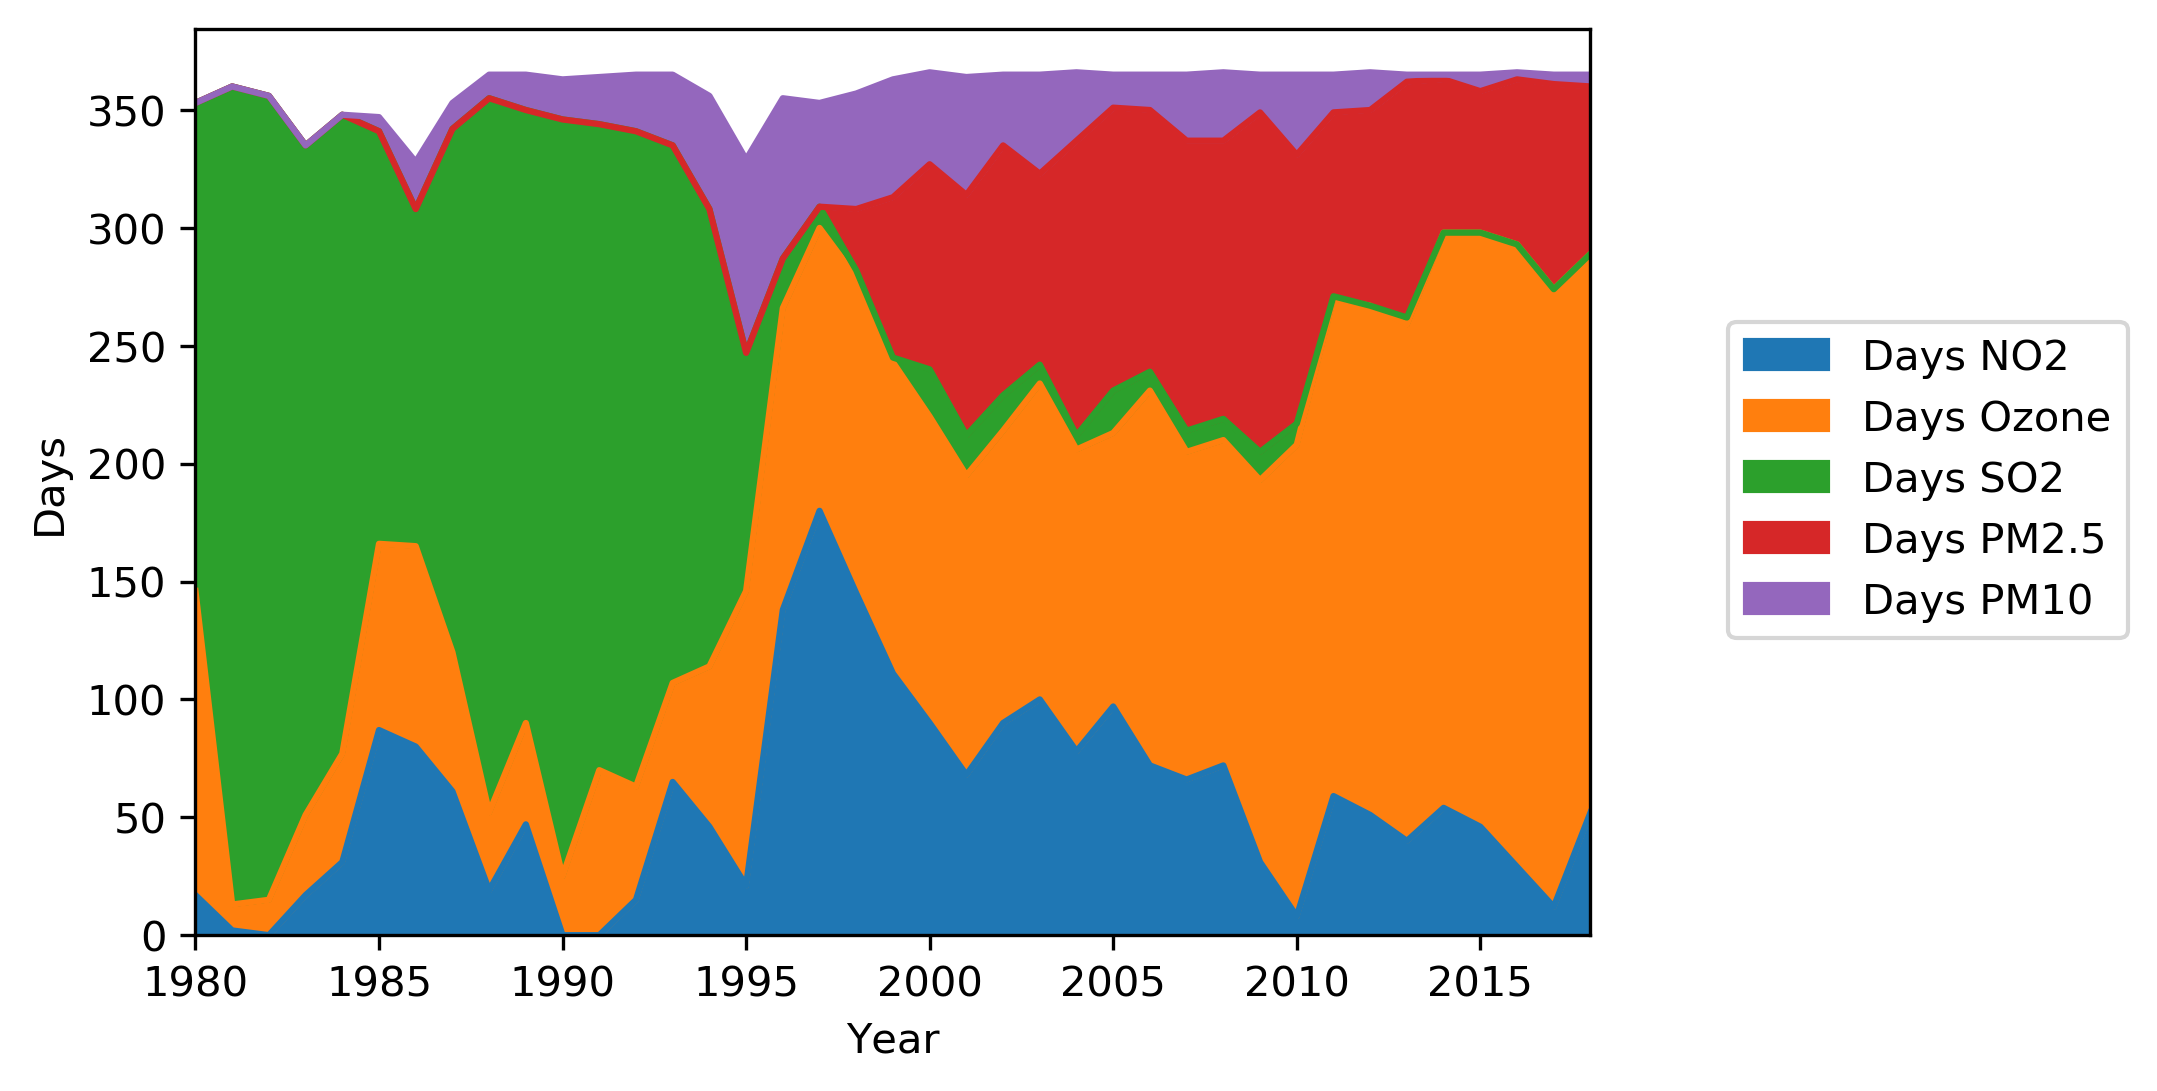
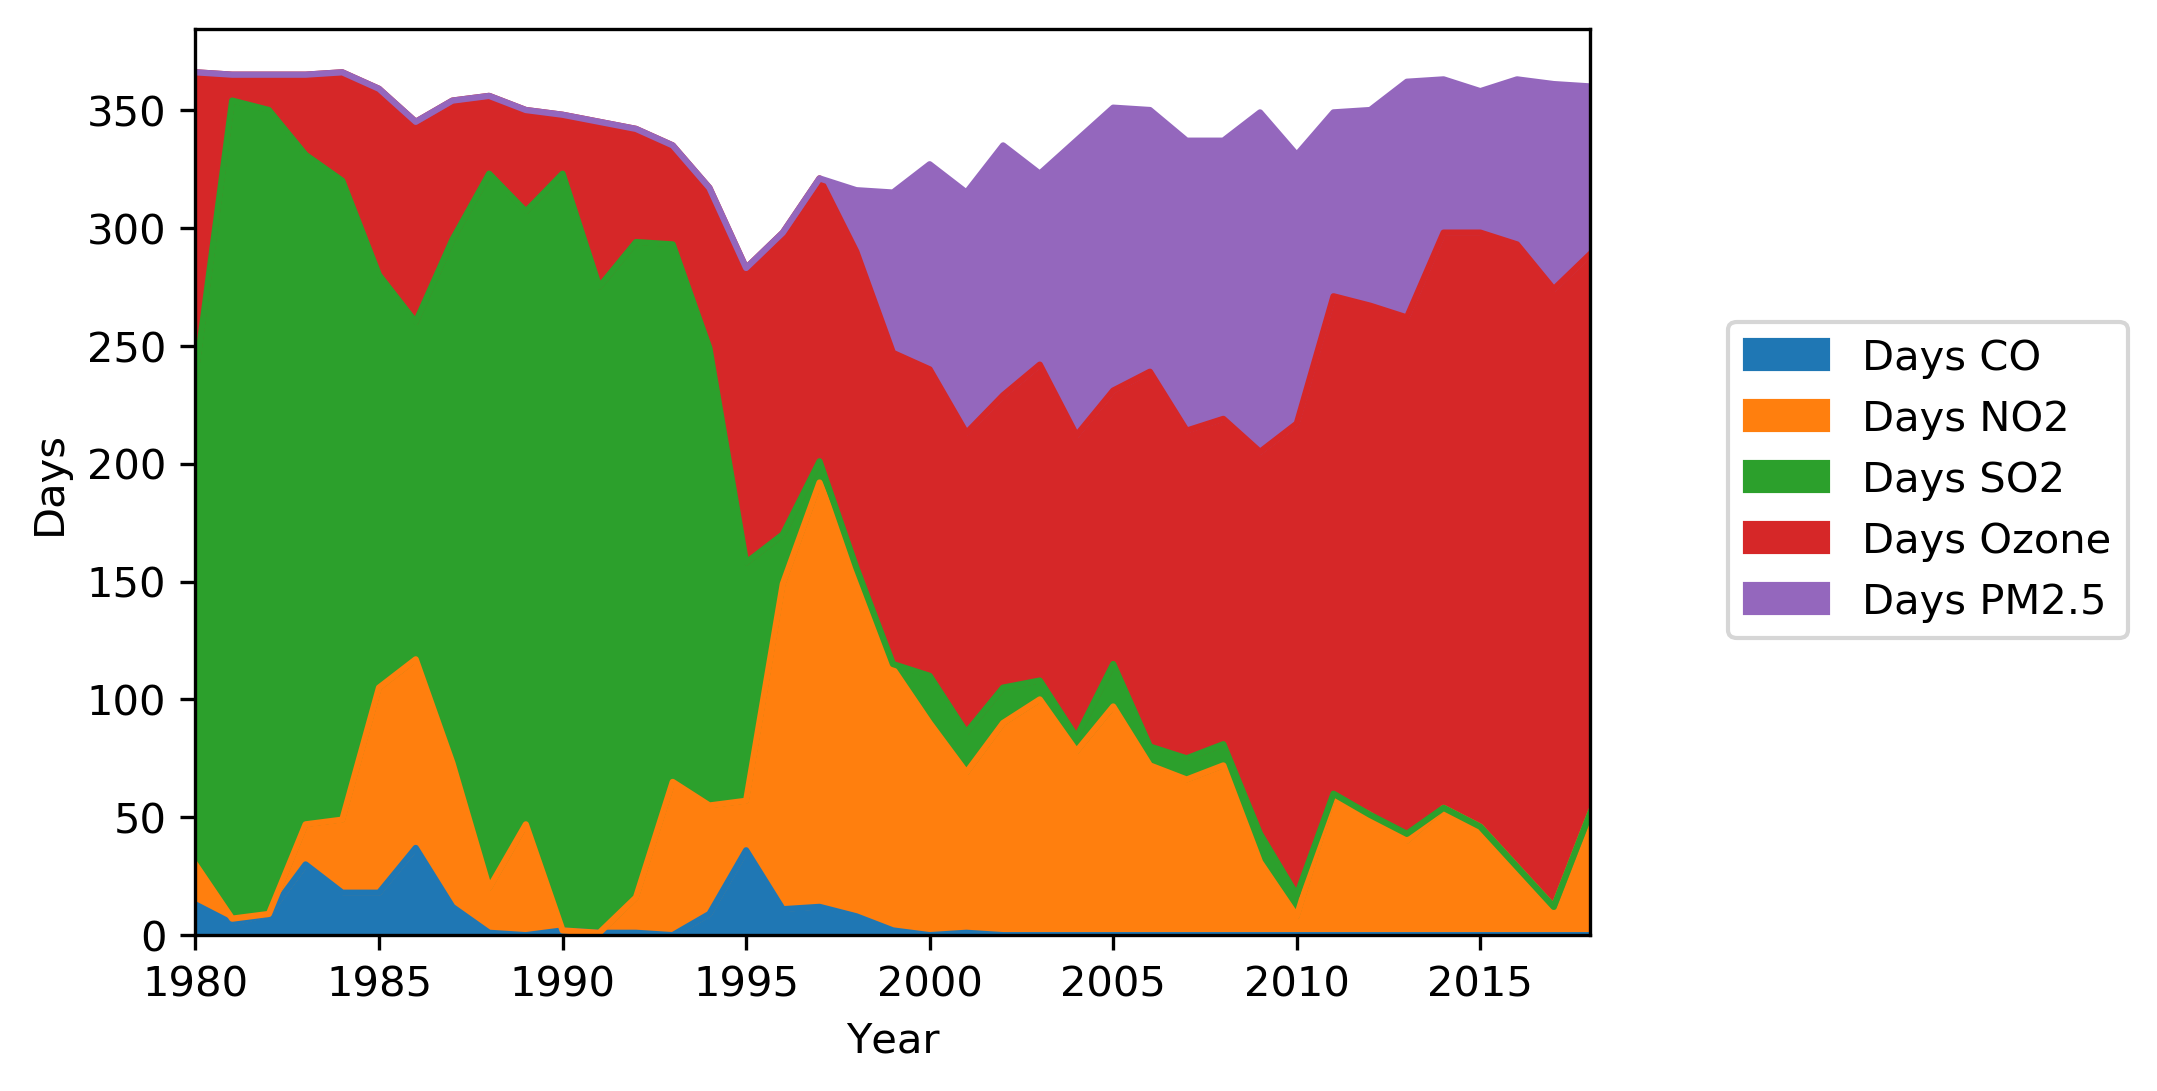
edits

diff --git a/_posts/2020-02-29-SLC-Air-Quality.md b/_posts/2020-02-29-SLC-Air-Quality.md
@@ -10,7 +10,7 @@ excerpt: "Using Python to collect and explore EPA air quality data."
 
 **Abstract**:
 
-Here I investigate how Salt Lake City's air quality has changed over time by downloading 38 years worth of data from the EPA, segmenting it into various dataframes with pandas, then exploring things visually with matplotlib.
+Here I investigate how Salt Lake City's air quality has changed over time by downloading 38 years worth of data from the EPA, segmenting it into various dataframes with pandas, then exploring them visually with matplotlib.
 
 **Background**:
 
@@ -24,7 +24,7 @@ As a child, I remember watching my dad clean the fish tank. This was a bit of a 
 
 <p style="text-align: center; font-style: italic;"> Not the fish tank of my childhood, but similar. </p>
 
-Household fish aren’t the only ones subjected to such conditions. Many of us live in areas with dirty air. Here’s a map of PM2.5 pollution (tiny particles that damage lungs) across the U.S.:
+Household fish aren’t the only ones subjected to such conditions. Many of us live in areas with dirty air. Here’s a map of PM2.5 pollution (tiny particles that cause a host of health problems) across the U.S.:
 
 <center>
 
@@ -34,7 +34,7 @@ Household fish aren’t the only ones subjected to such conditions. Many of us l
 
 <p style="text-align: center; font-style: italic;"> PM2.5 pollution across the U.S. </p>
 
-The blotch of red towards the middle-left of the country is Salt Lake City, where due to the perimeter of mountains surrounding the inhabited valley floor (forming a bowl-like geometry), pollutants can get trapped and accumulate. This is especially bad in the winter, when a blanket of warm air forms a “lid” on top of the colder valley floor – this is called the *winter inversion*, which is a spooky name.
+The blotch of red towards the middle-left of the country is Salt Lake City, where due to the perimeter of mountains surrounding the inhabited valley floor (forming a bowl-like geometry), pollutants get trapped and accumulate. This is especially bad in the winter, when a blanket of warm air forms a “lid” on top of the bowl – this effect is called the *winter inversion*, which is a spooky name.
 
 I had heard about this prior to moving to SLC, but so far this winter (is March still winter?) air quality hasn't seemed to be an issue. Is this inversion business just media hype? Is polluted air in Salt Lake a thing of the past? I was curious to see what the air quality in SLC is today and how it has changed over time.
 
@@ -60,7 +60,7 @@ Zooming in on SLC, we can see the valley has 5 active monitors:
 
 <p style="text-align: center; font-style: italic;"> Air quality monitors in Salt Lake City. </p>
 
-The EPA takes the pollutant concentration data from these monitors (some measured in parts per million, others in parts per billion), and translates them into a more intuitive measurement - AQI. AQI stands for Air Quality Index. This number is calculated for each of the primary pollutants, and the one with the highest AQI is what gets reported. The chart below might help clarify things:
+The EPA takes the pollutant concentration data from these monitors (some measured in parts per million, others in parts per billion), and translates them into a more intuitive measurement called the Air Quality Index, or AQI. The AQI is calculated for each of the primary pollutants individually, with the  highest AQI of the bunch being what gets reported. The chart below gives an idea of how each pollutant's concentration is converted into AQI:
 
 <center>
 
@@ -70,19 +70,13 @@ The EPA takes the pollutant concentration data from these monitors (some measure
 
 <p style="text-align: center; font-style: italic;"> Detail on how AQI is calculated per pollutant. </p>
 
-Again, whichever pollutant has the highest AQI is what gets reported that day. While that might seem convoluted at first glance, it does make communicating air quality fairly straightforward. There are 6 categories total, color-coded to help make things a bit more intuitive:
+Looking at the right side of the table, you can see AQI ranges from 0 to 500, with higher numbers signifying worse air quality. 0 to 50 is "Good" air quality (green), 51 to 100 is "Moderate" air quality (yellow), and so on.   
 
-<center>
-
-<img src="{{ site.url }}{{ site.baseurl }}/assets/images/SLC_Air_Quality/AQI_table_3_reduced_2.png" alt="AQI table: 0-50=good, 51-100=moderate,101-150=unhealthy for sensitive groups, 151-200=unhealthy, 210-300=very unhealthy, hazardous=301-500">
-
-</center>
-
-<p style="text-align: center; font-style: italic;"> The Air Quality Index (AQI) categories. </p>
+**#######removed this picture, it's redundant:**
 
 One final summary:
  - The EPA uses standard formulas to turn non-intuitive pollutant concentration data into the more intuitive Air Quality Index (AQI)
- - AQI ranges from 0 to 500, which lower numbers signifying better air quality
+ - AQI ranges from 0 to 500, with lower numbers signifying better air quality
  - The AQI reported on a given day is the highest AQI among the 5 primary pollutants (ozone, PM2.5 (particle pollution), carbon monoxide, sulfur dioxide, and nitrogen dioxide)
   - If two or more pollutants have AQI values above 100 on a given day, the highest AQI will be announced, with warnings for both pollutants included in the accompanying message.
   - In large cities (more than 350,000 people), state and local agencies are required to report the AQI to the public daily
@@ -298,7 +292,7 @@ To visualize how air quality has changed over time, we'll graph all three aspect
 
 ```python
 df_AQI = df_SLC[['Year', 'Good Days', 'Moderate Days', 'Unhealthy for Sensitive Groups Days', 'Unhealthy Days', 'Very Unhealthy Days', 'Hazardous Days']]
-df_pollutant = df_SLC[['Year', 'Days NO2', 'Days Ozone', 'Days SO2', 'Days PM2.5', 'Days PM10']]
+df_pollutant = df_SLC[['Year', 'Days CO', 'Days NO2', 'Days SO2', 'Days Ozone', 'Days PM2.5']]
 df_median_AQI = df_SLC[['Year', 'Median AQI']]
 ```
 
@@ -421,57 +415,57 @@ df_pollutant.head()
     <tr style="text-align: right;">
       <th></th>
       <th>Year</th>
+      <th>Days CO</th>
       <th>Days NO2</th>
-      <th>Days Ozone</th>
       <th>Days SO2</th>
+      <th>Days Ozone</th>
       <th>Days PM2.5</th>
-      <th>Days PM10</th>
     </tr>
   </thead>
   <tbody>
     <tr>
       <td>522</td>
       <td>1980</td>
+      <td>13</td>
       <td>17</td>
-      <td>129</td>
       <td>207</td>
-      <td>0</td>
+      <td>129</td>
       <td>0</td>
     </tr>
     <tr>
       <td>1133</td>
       <td>1981</td>
+      <td>5</td>
       <td>2</td>
-      <td>11</td>
       <td>347</td>
-      <td>0</td>
+      <td>11</td>
       <td>0</td>
     </tr>
     <tr>
       <td>1734</td>
       <td>1982</td>
+      <td>9</td>
       <td>0</td>
-      <td>15</td>
       <td>341</td>
-      <td>0</td>
+      <td>15</td>
       <td>0</td>
     </tr>
     <tr>
       <td>2344</td>
       <td>1983</td>
+      <td>30</td>
       <td>17</td>
-      <td>34</td>
       <td>284</td>
-      <td>0</td>
+      <td>34</td>
       <td>0</td>
     </tr>
     <tr>
       <td>2928</td>
       <td>1984</td>
+      <td>18</td>
       <td>31</td>
-      <td>46</td>
       <td>271</td>
-      <td>0</td>
+      <td>46</td>
       <td>0</td>
     </tr>
   </tbody>
@@ -586,7 +580,7 @@ plt.ylabel('Days')
 <p style="text-align: center; font-style: italic;"> Plot of SLC's Daily AQI from 2014 to 2018. </p>
 
 Since 2014, Salt Lake City has seen a decrease in "Good" air quality days. In their place we've had more "Moderate"
-and "Unhealthy for Sensitive Groups" days. This negative trend is further evidenced by plotting median AQI per year - great progress was made from 1980 to 2000, at which point progress stalled, and reversed in recent years:
+and "Unhealthy for Sensitive Groups" days. This negative trend is further evidenced by plotting median AQI per year - great progress was made from 1980 to 2000, at which point progress stalled, then reversed in recent years:
 
 
 ```python
@@ -611,7 +605,7 @@ The reference line is drawn at AQI=50. You might recall, an AQI below 50 signifi
 fig = df_pollutant.plot.area(x='Year', stacked=True)
 fig.legend(loc ='upper right',frameon=True, bbox_to_anchor=(1.4, 0.7))
 plt.ylabel('Days')
-#plt.savefig(r'C:\Users\Pat\Desktop\Patrick-DeBiasse.github.io\assets\images\SLC_Air_Quality\pollutant_mix.png', bbox_inches='tight', dpi=300)
+plt.savefig(r'C:\Users\Pat\Desktop\Patrick-DeBiasse.github.io\assets\images\SLC_Air_Quality\pollutant_mix.png', bbox_inches='tight', dpi=300)
 ```
 
 <center>
@@ -634,18 +628,125 @@ Some thoughts we might be sharing:
 
  **Discussion**:
 
- (coming soon)
- 03 Mar 2020
+Ozone (more commonly known as smog) is caused by a reaction of "precursors" and sunglight:
+#insert equation
+
+The sunlight component is why smog is much worse in the summer than in winter. With the above in mind, we can reduce ozone by reducing the quantity of these precursors we emit into the air. The primary sources of these precursors are:
+#potentially pie graph from that article
+
+PM2.5 are
+#picture of how tiny PM2.5 particles are - not the dust you might see when the sun comes through the windows and illuminates strange floating particles, these are so small they can only be seen by electron scanning microscope. Sources of these tiny particles include ___ ___ In this way - ozone and PM2.5 share common sources - so we could theoretically reduce both throug the same actions.
+
+That said, is our air quality currently "good enough"? What kind of health issues do these pollutants actually cause?
+#bring in quote from the formal BYU study on effect of pollution in the valley
+#link to our world in data post on air pollution world-wide
+
+Knowing that these are genuinely harmful to our health, how can we reduce them? Limiting the sources is the most direct route - but which sources contribute which portion of the overall pollution?
+#add pie chart
+
+Some potential sollutions to reduce pollutions from each of these contributors:
+ - mobile sources: fleet electrification, incentivize electric car sales
+ - stationary sources: encourage installation of increased efficiency appliances and insulation
+
+With the population rising quickly, things become more challenging. There are now more fish in the fish tank - more cars on the roads, more homes requiring electricity, etc.  
+
+The Utah government has done X, Y, Z, but judging by the worsening air quality in the valley since 2014 you might think more aggressive action is warranted.  
+
+
+1) What causes these pollutants?
+Ozone (also known as smog) and PM2.5 (particulate matter with a diameter less than 2.5 micrometers) share quite a few sources. Ozone
+
+Bad ozone forms near the ground when pollutants (emitted by sources such as cars, power plants, industrial boilers, refineries, and chemical plants) react chemically in sunlight. Ozone pollution is more likely to form during warmer months. This is when the weather conditions normally needed to form ground-level ozone—lots of sun—occur.
+
+"Ozone develops in the atmosphere from gases that come out of tailpipes, smokestacks and many other sources,” reports ALA. “When these gases come in contact with sunlight, they react and form ozone smog.”
+
+Major sources of fine particles include motor vehicles, power plants, residential wood burning, forest fires, agricultural burning, some industrial processes, and other combustion processes.
+
+As for particulate pollution, it too comes from a wide range of both mobile and stationary sources. “Burning fossil fuels in factories, power plants, steel mills, smelters, diesel- and gasoline-powered motor vehicles (cars and trucks) and equipment generates a large part of the raw material for fine particles,” explains ALA. “So does burning wood in residential fireplaces and wood stoves or burning agricultural fields or forests.”
+More information can be found [here](https://airnow.gov/index.cfm?action=aqi_brochure.index).
+
+2) How harmful are they?
+
+Several groups of people are particularly sensitive to ozone, especially when they are active outdoors. This is because ozone levels are higher outdoors, and physical activity causes faster and deeper breathing, drawing more ozone into the body.
+
+People with lung diseases, such as asthma, chronic bronchitis, and emphysema, can be particularly sensitive to ozone. They will generally experience more serious health effects at lower levels. Ozone can aggravate their diseases, leading to increased medication use, doctor and emergency room visits, and hospital admissions.
+
+Children, including teenagers, are at higher risk from ozone exposure because they often play outdoors in warmer weather when ozone levels are higher, they are more likely to have asthma (which may be aggravated by ozone exposure), and their lungs are still developing.
+
+Older adults may be more affected by ozone exposure, possibly because they are more likely to have pre-existing lung disease.
+
+Active people of all ages who exercise or work vigorously outdoors are at increased risk.
+
+Some healthy people are more sensitive to ozone. They may experience health effects at lower ozone levels than the average person even though they have none of the risk factors listed above. There may be a genetic basis for this increased sensitivity.
+In general, as concentrations of ground-level ozone increase, more people begin to experience more serious health effects. When levels are very high, everyone should be concerned about ozone exposure.
+Breathing in smog, while inevitable in certain urban and industrial areas, can irritate the cardiovascular system and cause other health problems.
+Chronic exposure to particulate pollution has been linked not only to cardiovascular issues but also to cancers and reproductive problems—and has been shown to contribute to premature death.
+
+
+https://www.slc.gov/sustainability/air-quality/
+
+
+https://deq.utah.gov/air-quality/what-is-ozone
+
+3) Why are they increasing?
+Population increase in the valley doesn't help. Requires more energy, more cars, more infrastructure.
+
+4) How can we reduce air pollution in the valley?
+bring in info from this: http://home.chpc.utah.edu/~whiteman/PM2.5/PM2.5.html
+discuss wood burning "spare the air" days
+no idle laws here compared to nyc
+electrifying fleet vehicles
+improving energy efficiency in homes and buildings
+
+
+based on what causes them, what the most promising ways to reduce them are
+- electric vehicles?
+https://energy.utah.gov/wp-content/uploads/2019/07/State-of-Utah-EV-MasterL.pdf
+page 7 #5
+http://www.swenergy.org/data/sites/1/media/documents/publications/documents/2017_EV_Emissions_Update_Wasatch_Front_Jan-2017.pdf
+market penetration: only 3% or 8% of vehicle sales by 2035?? Seems low.
+
+discuss idle ban put in place by new york? People who submit 4 minute video to report people get up to 25% of the fine! One dude made $16k
+
+- banning burning wood?
 
 
 **Conclusion**:
 
-(coming soon)
-03 Mar 2020
+discuss most promising ways to improve air quality
+
+if you coach youth sports, you consider canceling practice if the AQI goes above 100.
+
+To help raise public awareness of air quality, I think placing air quality monitors at street level downtown and having live, color-coded displays announcing current AQI (and perhaps a 7-day plotted history) could be of use. Something near Pioneer Park could attract a lot of eyeballs. Having a Tesla sales booth stationed next to it while the Farmer's market is going on might result in a few sales..
 
 
 **Future work**:
 
 The original dataframe I made for this post contains AQI data for all counties across the U.S. from 1980 to 2018. In order to make this relevant for more people, I'd like to make an interactive plot using bokeh or plotly so users can select their state and county and get direct access to the plots I found useful in quantifying Salt Lake City's air quality. This could help communities diagnose the quality of their air at an AQI level, then look specifically at which primary sources of pollution are at fault.
 
-In addition, I found I really knew very little about how air quality is measured and communicated. (creating monitors in downtown SLC in high foot traffic areas to display live air quality and pollutant mix to directly communicate air quality, and bring some clarity to the fact that we are just like my household fish. Fortunately, we don't have to rely on others to improve our situation.
+In addition, I found I really knew very little about how air quality is measured and communicated. Placing more visible monitors downtown in high foot traffic areas to display live air quality and pollutant mix could help educate others.
+by clarifying directly communicate air quality, and bring some clarity to the fact that we are just like my household fish. Fortunately, we don't have to rely on others to improve our situation.
+
+**References**:
+
+Brigham Young University - College Undergraduate Research Awards Program (2020) "Human health and economic costs of air pollution in Utah". Online [here](https://brightspotcdn.byu.edu/96/f4/8817094748fd8ac1edc5288bf804/costs-of-air-pollution-byu-1-1.pdf).
+
+University of Utah Center for High Performing Computing (2017) - "Frequently asked Questions about Wintertime PM2.5 Pollution in Utah's Salt Lake Valley". Online [here](http://home.chpc.utah.edu/~whiteman/PM2.5/PM2.5.html).
+
+Hannah Ritchie and Max Roser (2020) - "Outdoor Air Pollution". Online at OurWorldInData.org [here](https://ourworldindata.org/outdoor-air-pollution).
+
+WHO (2018) – Fact sheet – Ambient air quality and health. Updated May 2018. Online [here](https://ourworldindata.org/outdoor-air-pollution).
+
+NASA (2010) - "New Map Offers a Global View of Health-Sapping Air Pollution". Published Sep 2010. Online [here](https://www.nasa.gov/topics/earth/features/health-sapping.html).
+
+EPA (2018) - "Technical Assistance Document for the
+Reporting of Daily Air Quality – the Air Quality
+Index (AQI)". Updated Sep 2018. Online [here](https://www3.epa.gov/airnow/aqi-technical-assistance-document-sept2018.pdf).
+
+EPA (2017) - "Air Quality Index - A Guide to Air Quality and Your Health". Updated Jul 2017. Online [here](https://airnow.gov/index.cfm?action=aqi_brochure.index).
+
+Wikipedia (2020) - "Air quality index". Updated Feb 2020. Online [here](https://en.wikipedia.org/wiki/Air_quality_index#Computation).
+
+Utah DEQ (2020) - "What is Ozone?". Updated Feb 2020. Online [here](https://deq.utah.gov/air-quality/what-is-ozone).
+
+Utah DEQ (2019) - "Particulate Matter Overview". Updated Jun 2019. Online [here](https://deq.utah.gov/air-quality/particulate-matter-overview).
